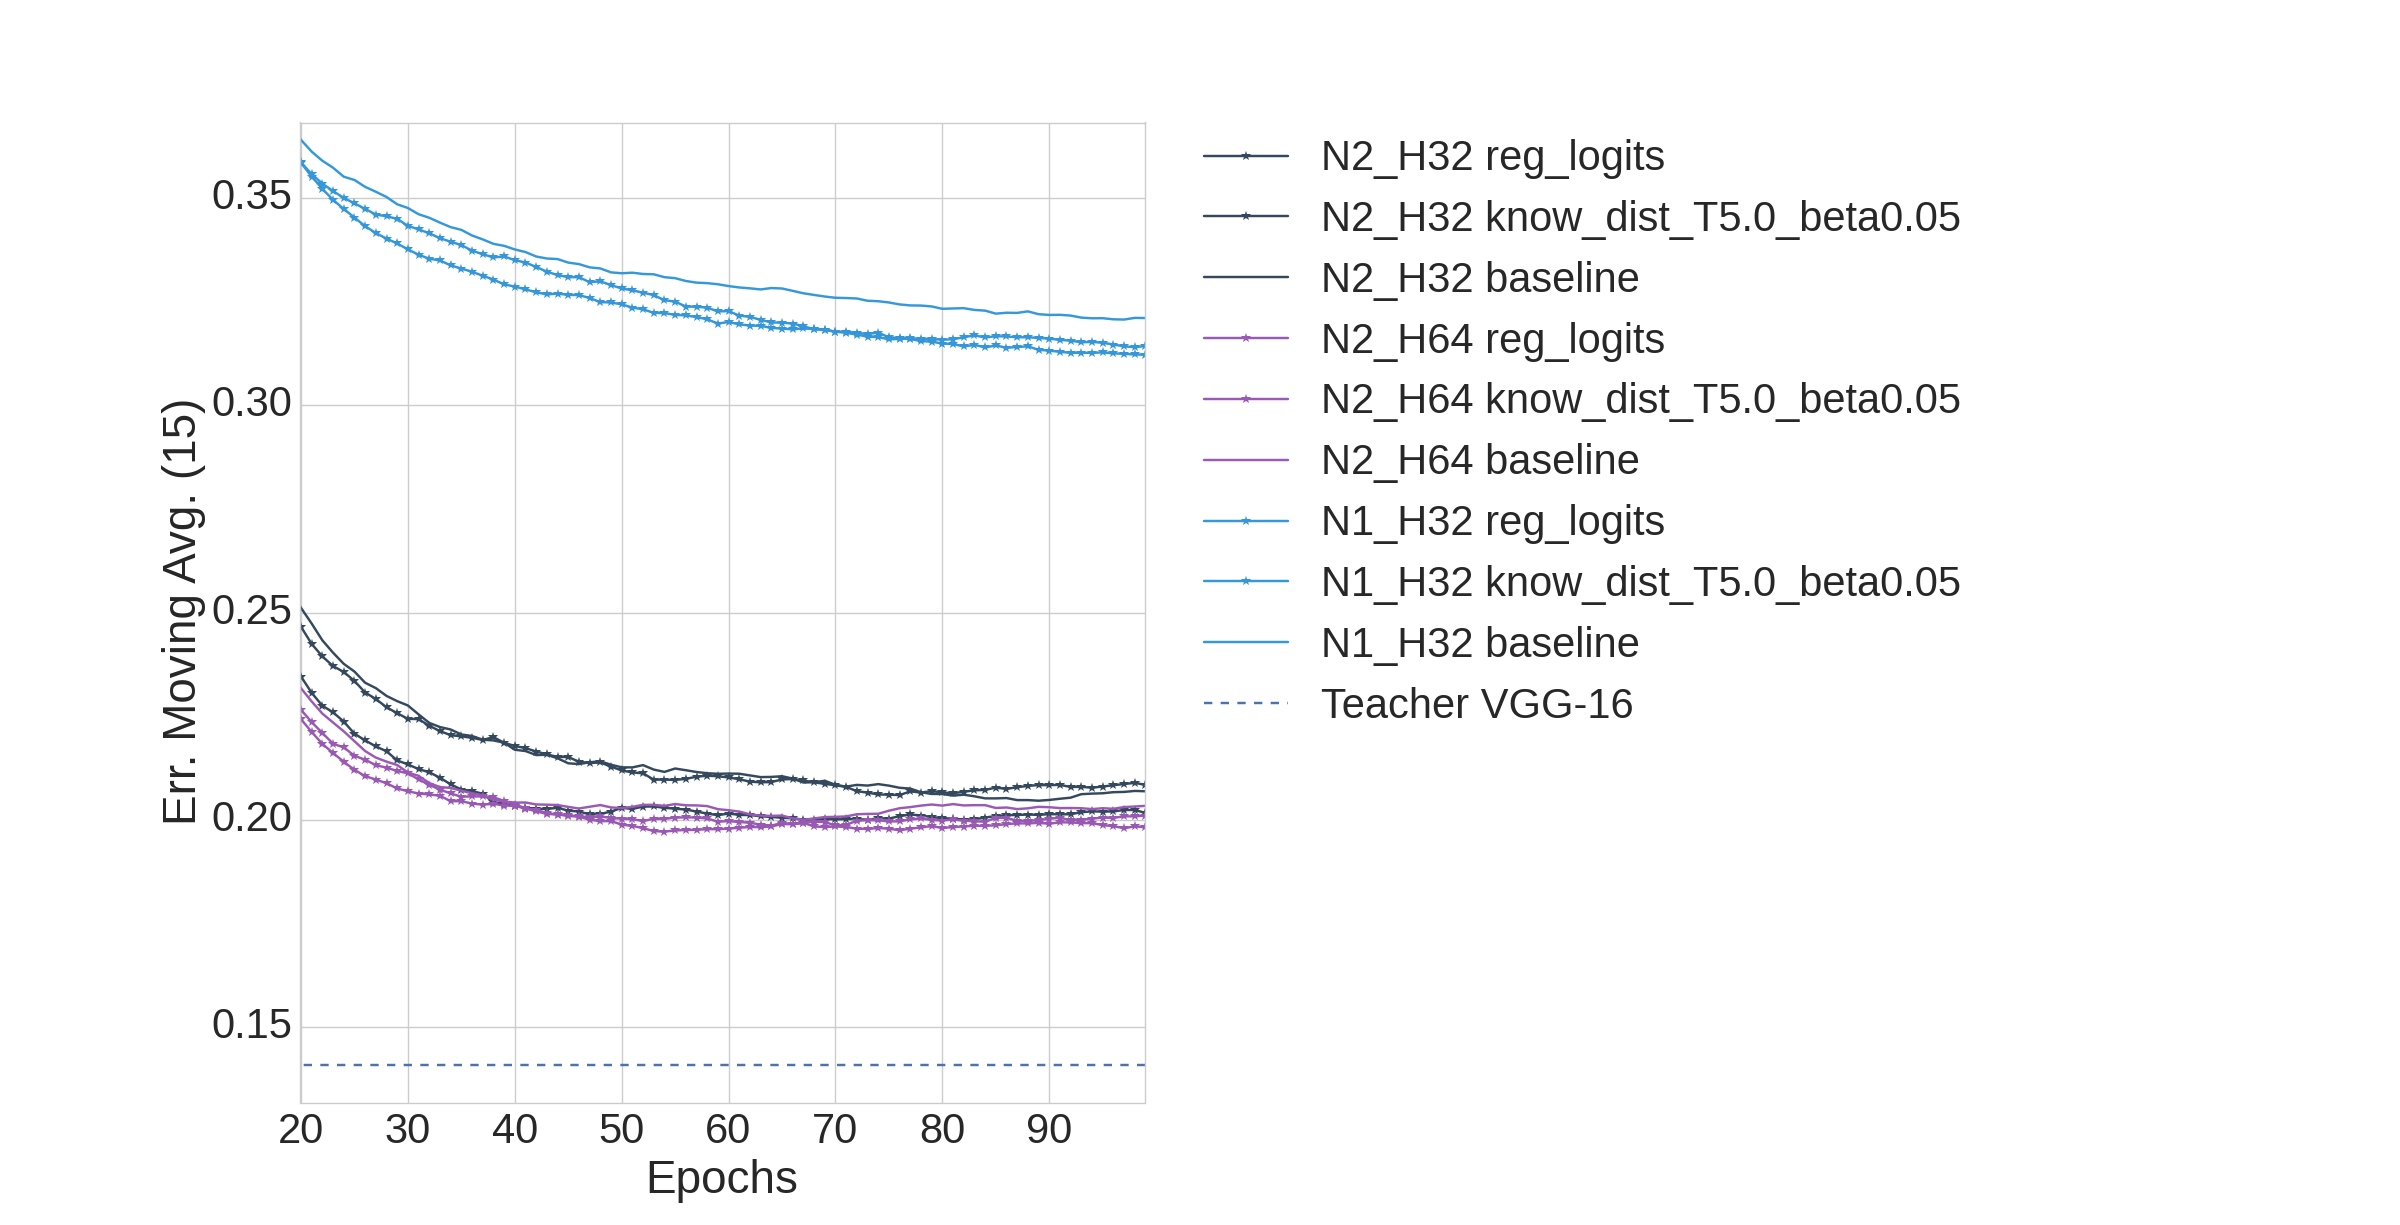
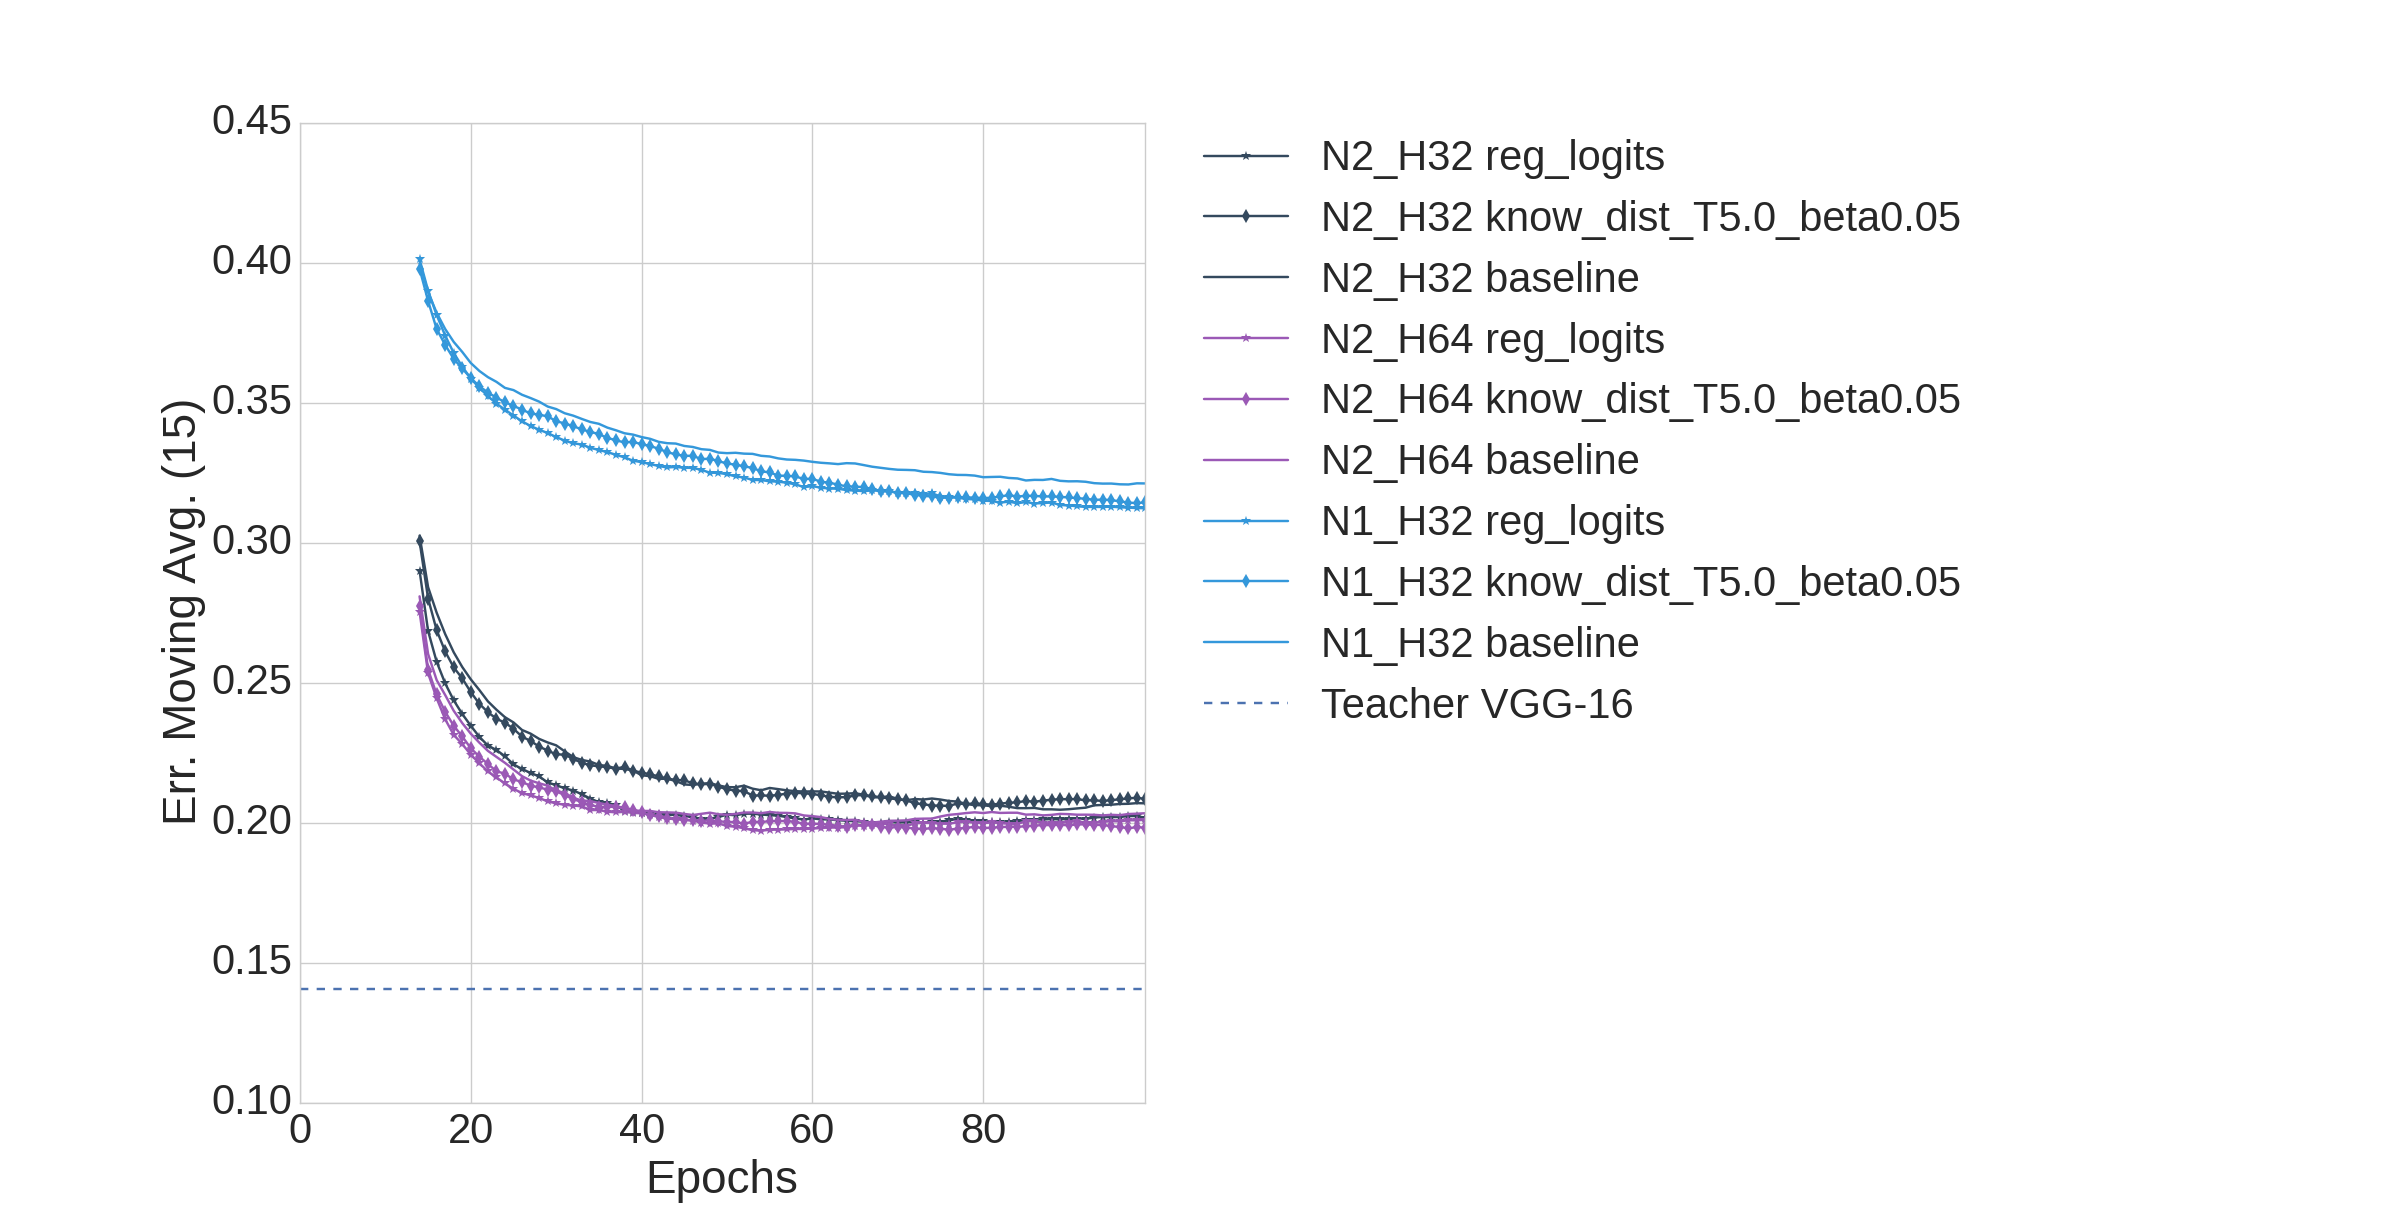
more plots

diff --git a/Plots/plot_all.py b/Plots/plot_all.py
@@ -93,17 +93,19 @@ for dataset in series.keys():
 					# continue
 					marker = ','
 				elif re.match(r'baseline_hint_based', algo):
-					continue
+					# continue
 					marker = 's'
 				elif re.match(r'reg_logits',algo):
 					# continue
 					marker='*'
-				elif re.match(r'know_dist$',algo):
+				elif re.match(r'know_dist',algo):
 					# continue
 					marker='d'
 				elif re.match(r'know_dist_hint_based',algo):
-					continue
+					# continue
 					marker = 'h'
+
+				print algo, marker
 
 				if not ax:
 					ax = plt.subplot(121)
